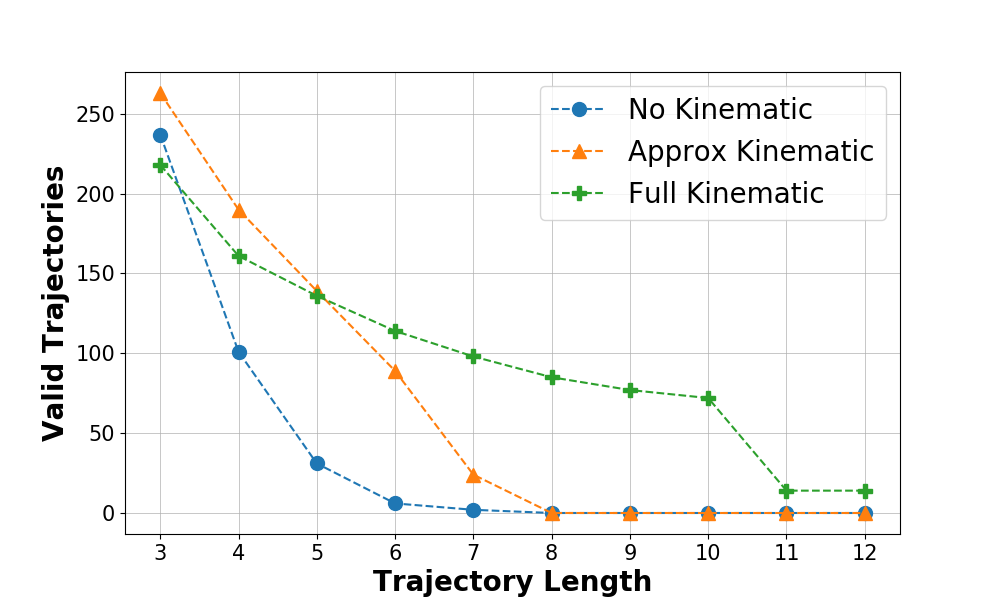
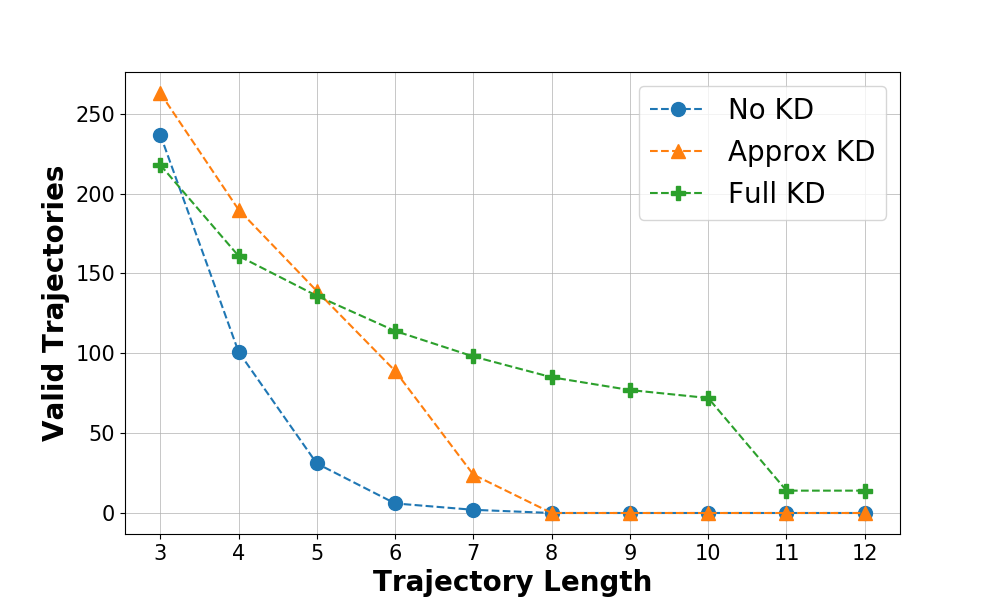
Updated image with means

diff --git a/TestGeneration/AnalyzeResults/RQ2.py b/TestGeneration/AnalyzeResults/RQ2.py
@@ -24,15 +24,21 @@ def set_box_color(bp, color):
     plt.setp(bp['caps'], linewidth=2)
     plt.setp(bp['medians'], linewidth=2)
     # plt.setp(bp['fliers'], linewidth=3)
-    # plt.setp(bp['means'], linewidth=3)
+    plt.setp(bp['means'], linewidth=3)
 
 
 def add_values(bp, ax, left=False):
     """ This actually adds the numbers to the various points of the boxplots"""
-    for element in ['whiskers', 'medians', 'caps']:
+    for element in ['means']:
         for line in bp[element]:
             # Get the position of the element. y is the label you want
-            (x_l, y),(x_r, _) = line.get_xydata()
+            x_r, x_l, y = 0, 0, 0
+            if element == "means":
+                a = line.get_xydata()[0]
+                x_r = a[0]
+                y = a[1]
+            else:
+                (x_l, y),(x_r, _) = line.get_xydata()
             # Make sure datapoints exist
             # (I've been working with intervals, should not be problem for this case)
             if not np.isnan(y):
@@ -42,19 +48,16 @@ def add_values(bp, ax, left=False):
                     else:
                         x_line_center = x_l - (x_r - x_l)
                     if element == 'whiskers':
-                        x_line_center = x_r
+                        x_line_center = x_r                   
                 else:
-                    x_line_center = x_r
+                    x_line_center = x_r + 0.25
                 y_line_center = y  # Since it's a line and it's horisontal
                 # overlay the value:  on the line, from center to right
                 ax.text(x_line_center, y_line_center, # Position
-                        '%.3f' % y, # Value (3f = 3 decimal float)
+                        '%.2f' % y, # Value (3f = 3 decimal float)
                         verticalalignment='center', # Centered vertically with line
-                        fontsize=10, backgroundcolor="white")
-
-
-
-
+                        fontsize=12,
+                        fontweight='bold')
 
 # For RQ2
[1 lines of base64/hex data omitted]
@@ -614,18 +617,22 @@ plt.axvline(x=15, color='black', linestyle='-', linewidth=0.5)
 # Plot the box plots
 bp2_pos = positions=5*np.arange(len(edgecore_results))+1
 bp2 = plt.boxplot(edgecore_results, positions=bp2_pos, showmeans=True)
+add_values(bp2, ax1)
 # annotate_boxplot(bp2, positions=bp2_pos, text="High Velocity")
 
 bp3_pos = positions=5*np.arange(len(edge90score_results))+2
 bp3 = plt.boxplot(edge90score_results, positions=bp3_pos, showmeans=True)
+add_values(bp3, ax1)
 # annotate_boxplot(bp3, positions=bp3_pos, text="High Velocity + 90 Deg")
 
 bp4_pos = positions=5*np.arange(len(edge180score_results))+3
 bp4 = plt.boxplot(edge180score_results, positions=bp4_pos, showmeans=True)
+add_values(bp4, ax1)
 # annotate_boxplot(bp4, positions=bp4_pos, text="High Velocity + 180 Deg")
 
 bp5_pos = positions=5*np.arange(len(learnedscore_results))+4
 bp5 = plt.boxplot(learnedscore_results, positions=bp5_pos, showmeans=True)
+add_values(bp5, ax1)
 # annotate_boxplot(bp5, positions=bp5_pos, text="Learned Scoring")
 
 

diff --git a/TestGeneration/AnalyzeResults/RQ1_GEN.py b/TestGeneration/AnalyzeResults/RQ1_GEN.py
@@ -11,7 +11,7 @@ all_files = ["initial_searchtype_random_scoretype_random_dronetype_mit_trajector
             "initial_searchtype_maxvel_scoretype_random_dronetype_mit_trajectorylength_10_beamwidth_5_nodes_250_resolution_4_seed_10_totaltime_7200_simulationtime_90.txt",
             "initial_searchtype_kinematic_scoretype_random_dronetype_mit_trajectorylength_10_beamwidth_5_nodes_250_resolution_4_seed_10_totaltime_7200_simulationtime_90.txt"]
 
-tick_names = ["No Kinematic", "Approx Kinematic", "Full Kinematic"]
+tick_names = ["No KD", "Approx KD", "Full KD"]
 
 # Used to save the results for each of the files
 explored_trajectories = []
@@ -163,15 +163,15 @@ xp = np.linspace(3, 15, 100)
 
 # randp = np.poly1d(np.polyfit(x, valid_trajectories[0], 5))
 # plt.plot(xp, randp(xp), linestyle="--", color='C0', linewidth=0.75)
-plt.plot(x, valid_trajectories[0], linestyle="--", label="No Kinematic", marker="o", markersize=10)
+plt.plot(x, valid_trajectories[0], linestyle="--", label="No KD", marker="o", markersize=10)
 
 # maxvp = np.poly1d(np.polyfit(x, valid_trajectories[1], 5))
 # plt.plot(xp, maxvp(xp), linestyle="--", color='C1', linewidth=0.75)
-plt.plot(x, valid_trajectories[1], linestyle="--", label="Approx Kinematic", marker="^", markersize=10)
+plt.plot(x, valid_trajectories[1], linestyle="--", label="Approx KD", marker="^", markersize=10)
 
 # kinp = np.poly1d(np.polyfit(x, valid_trajectories[2], 3))
 # plt.plot(xp, kinp(xp), linestyle="--", color='C2', linewidth=0.75)
-plt.plot(x, valid_trajectories[2], linestyle="--", label="Full Kinematic", marker="P", markersize=10)
+plt.plot(x, valid_trajectories[2], linestyle="--", label="Full KD", marker="P", markersize=10)
 
 plt.xlabel("Trajectory Length", fontweight='bold', fontsize=20)
 plt.ylabel("Valid Trajectories", fontweight='bold', fontsize=20)
